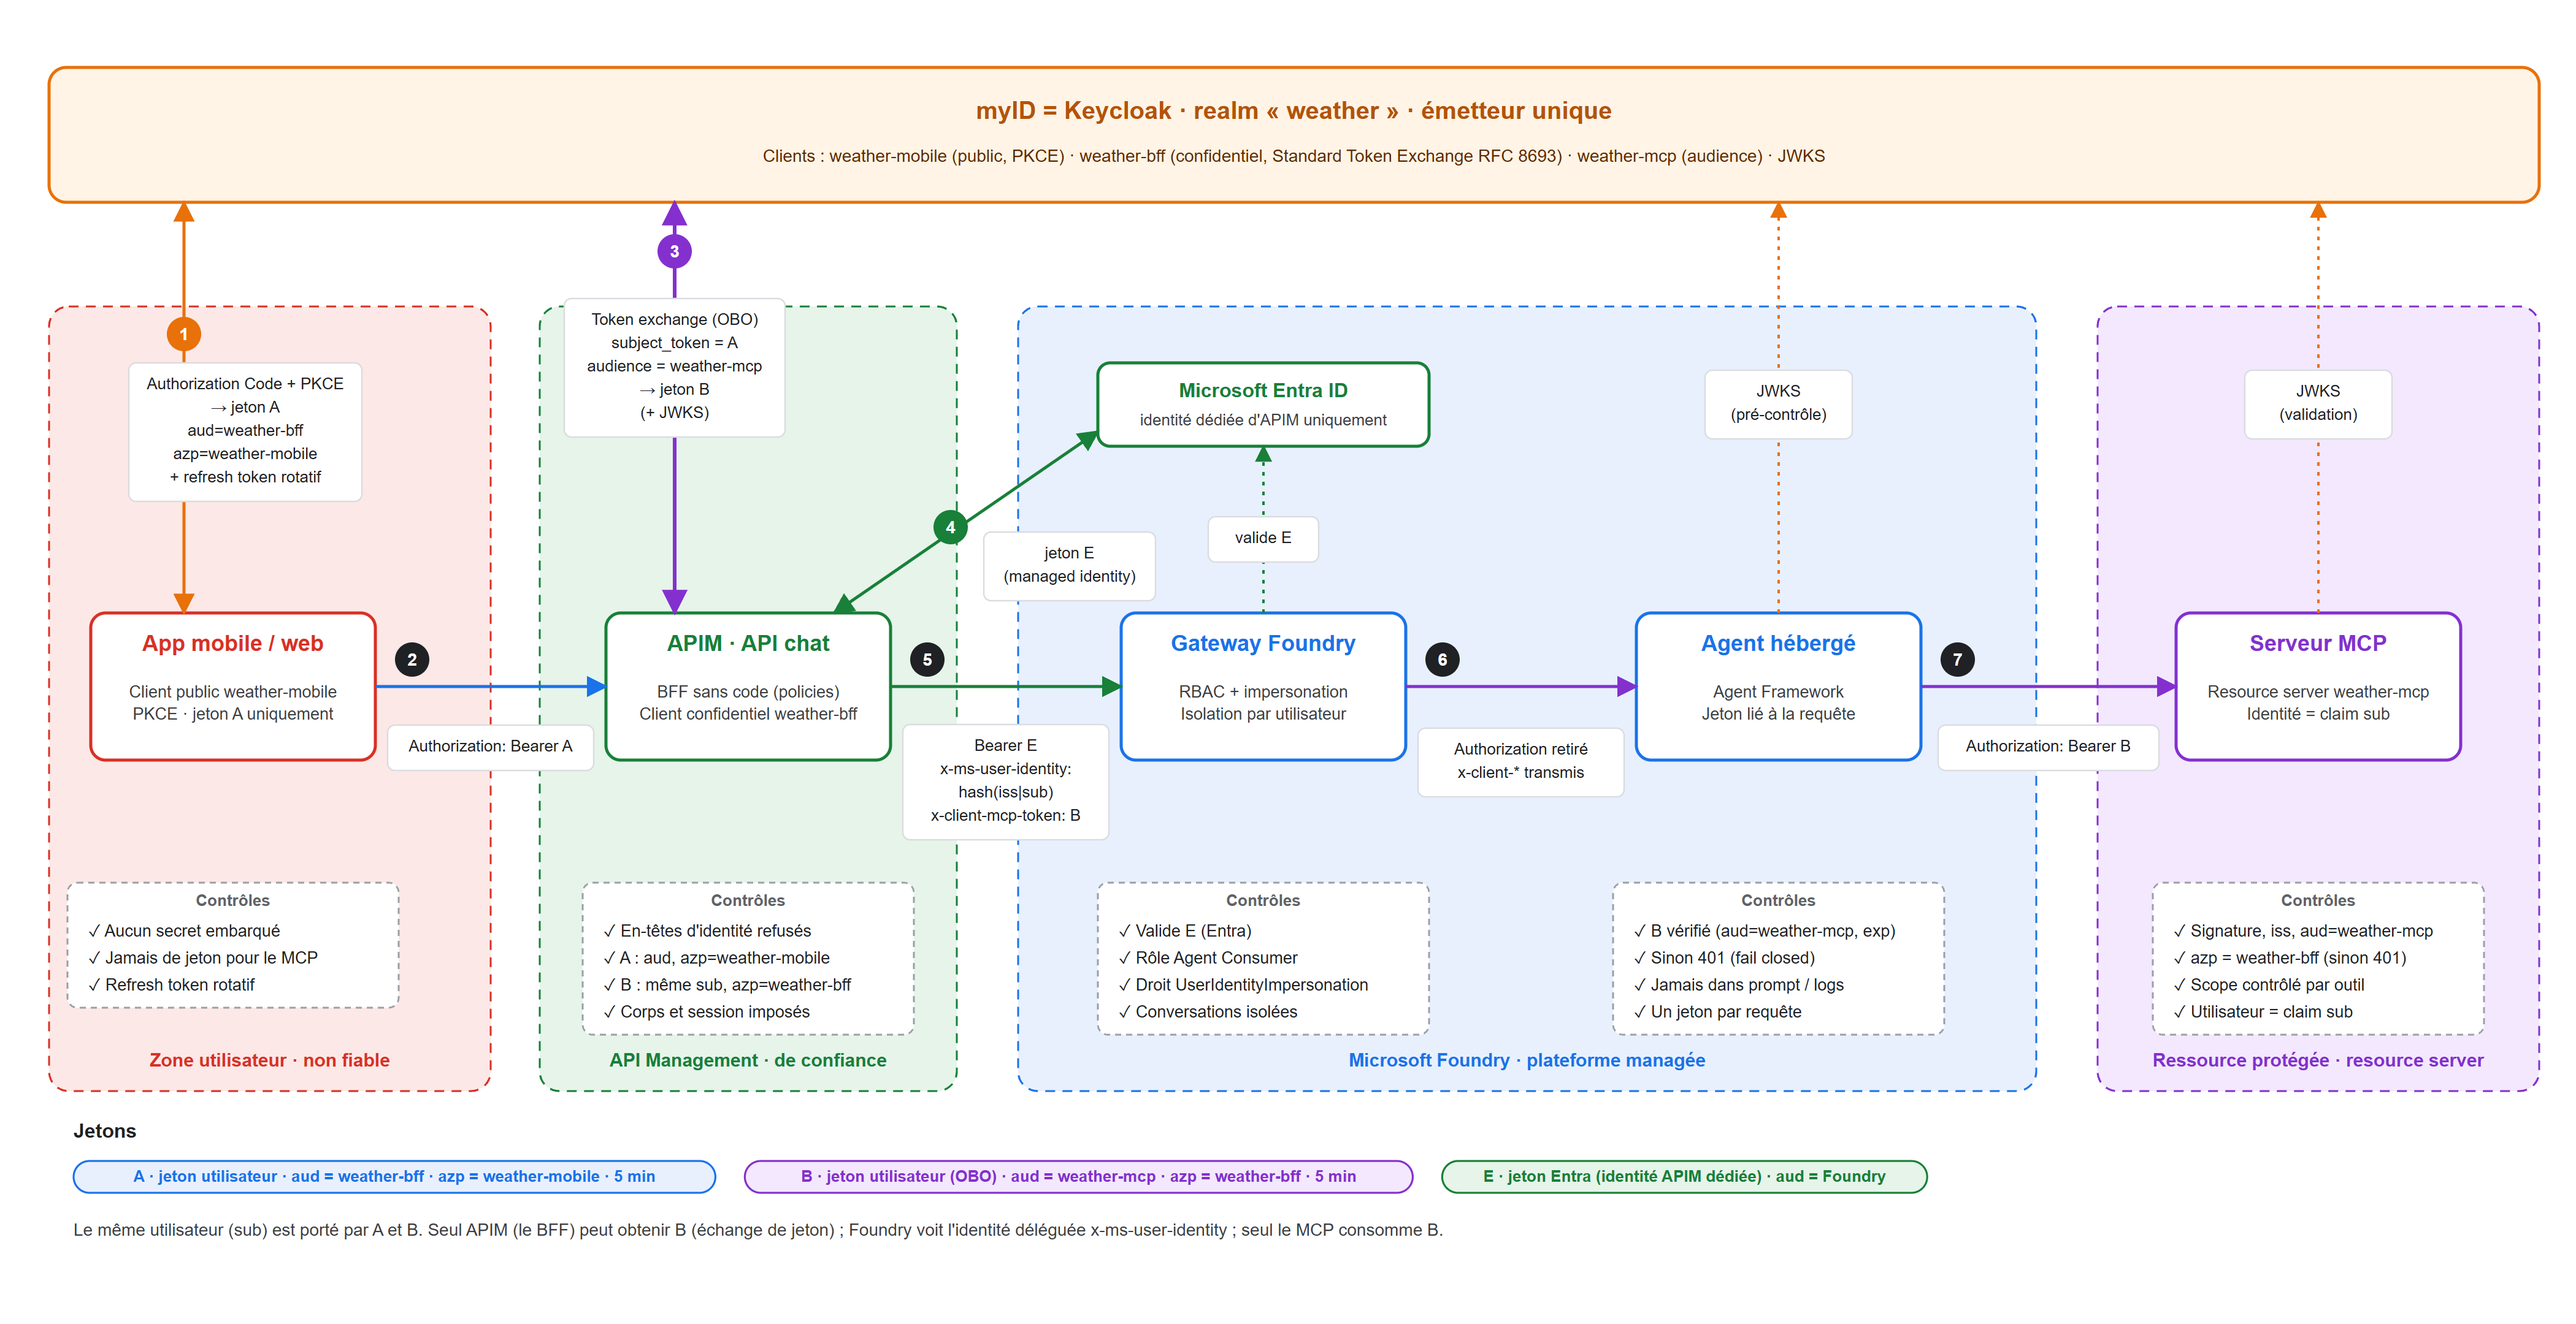
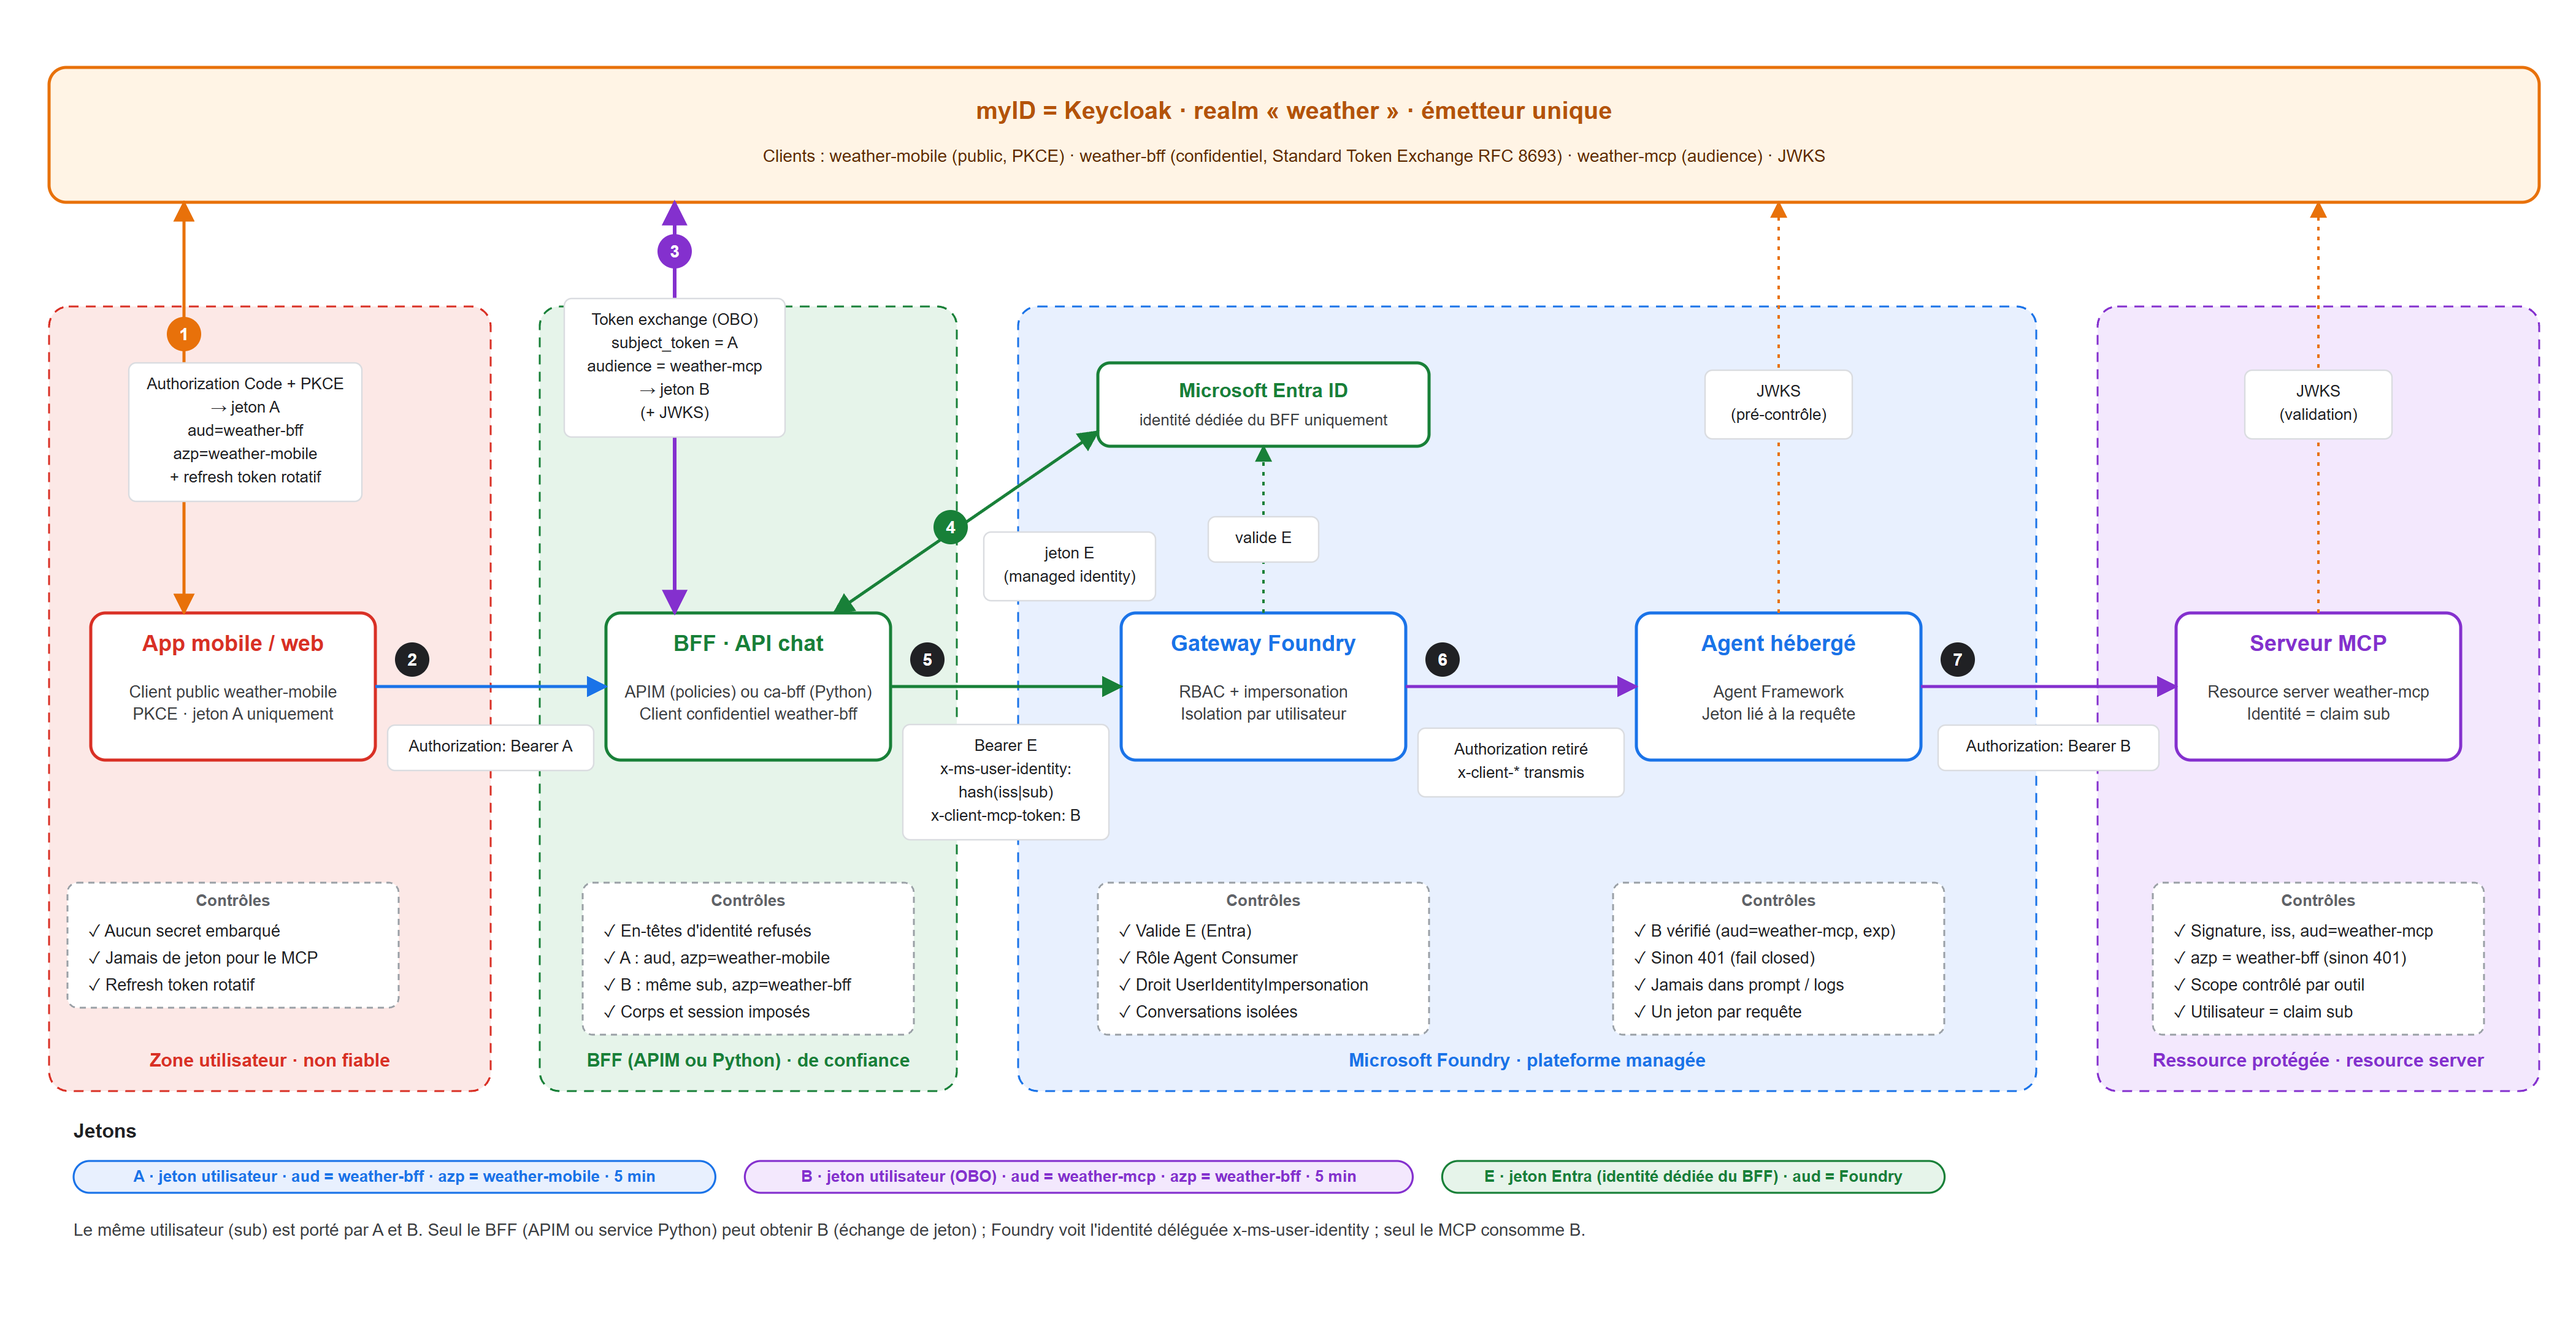
docs(architecture): describe the code BFF mode alongside APIM
Sections 1-7 are now mode-neutral (the BFF is APIM or the ca-bff Python
service), with a per-step table of what changes between modes. Section 8
gains an 'Architecture du mode code' part: deployment diagram, resources,
id-bff roles, Key Vault secret reference, module layout, scaling limits,
local tests and deployment. Flow and sequence diagrams regenerated.

diff --git a/docs/diagrams/flow.py b/docs/diagrams/flow.py
@@ -88,7 +88,7 @@ out.append(
 # Trust zones (background)
 zones = [
     ("app", "Zone utilisateur", "non fiable", "#FCE8E6", "#D93025", 40, 360),
-    ("bff", "API Management", "de confiance", "#E6F4EA", "#188038", 440, 340),
+    ("bff", "BFF (APIM ou Python)", "de confiance", "#E6F4EA", "#188038", 440, 340),
     ("foundry", "Microsoft Foundry", "plateforme managée", "#E8F0FE", "#1A73E8", 830, 830),
     ("mcp", "Ressource protégée", "resource server", "#F3E8FD", "#8430CE", 1710, 360),
 ]
@@ -104,11 +104,11 @@ text(1055, IDP_Y + 18, "Clients : weather-mobile (public, PKCE) · weather-bff (
 # Entra
 rect(COLS["gw"] - 135, ENTRA_Y - 34, 270, 68, "#FFFFFF", "#188038", rx=10, sw=2.5)
 text(COLS["gw"], ENTRA_Y - 10, "Microsoft Entra ID", size=16, weight="bold", color="#188038")
-text(COLS["gw"], ENTRA_Y + 14, "identité dédiée d'APIM uniquement", size=13, color="#3C4043")
+text(COLS["gw"], ENTRA_Y + 14, "identité dédiée du BFF uniquement", size=13, color="#3C4043")
 
 # Main chain
 box(COLS["app"], CHAIN_Y, BOX_W, BOX_H, "App mobile / web", ["Client public weather-mobile", "PKCE · jeton A uniquement"], "#FFFFFF", "#D93025")
-box(COLS["bff"], CHAIN_Y, BOX_W, BOX_H, "APIM · API chat", ["BFF sans code (policies)", "Client confidentiel weather-bff"], "#FFFFFF", "#188038")
+box(COLS["bff"], CHAIN_Y, BOX_W, BOX_H, "BFF · API chat", ["APIM (policies) ou ca-bff (Python)", "Client confidentiel weather-bff"], "#FFFFFF", "#188038")
 box(COLS["gw"], CHAIN_Y, BOX_W, BOX_H, "Gateway Foundry", ["RBAC + impersonation", "Isolation par utilisateur"], "#FFFFFF", "#1A73E8")
 box(COLS["agent"], CHAIN_Y, BOX_W, BOX_H, "Agent hébergé", ["Agent Framework", "Jeton lié à la requête"], "#FFFFFF", "#1A73E8")
 box(COLS["mcp"], CHAIN_Y, BOX_W, BOX_H, "Serveur MCP", ["Resource server weather-mcp", "Identité = claim sub"], "#FFFFFF", "#8430CE")
@@ -176,8 +176,8 @@ text(60, ly - 36, "Jetons", size=16, weight="bold", anchor="start")
 x = 60
 x += pill(x, ly, "A", "A · jeton utilisateur · aud = weather-bff · azp = weather-mobile · 5 min") + 24
 x += pill(x, ly, "B", "B · jeton utilisateur (OBO) · aud = weather-mcp · azp = weather-bff · 5 min") + 24
-pill(x, ly, "E", "E · jeton Entra (identité APIM dédiée) · aud = Foundry")
-text(60, ly + 44, "Le même utilisateur (sub) est porté par A et B. Seul APIM (le BFF) peut obtenir B (échange de jeton) ; Foundry voit l'identité déléguée x-ms-user-identity ; seul le MCP consomme B.",
+pill(x, ly, "E", "E · jeton Entra (identité dédiée du BFF) · aud = Foundry")
+text(60, ly + 44, "Le même utilisateur (sub) est porté par A et B. Seul le BFF (APIM ou service Python) peut obtenir B (échange de jeton) ; Foundry voit l'identité déléguée x-ms-user-identity ; seul le MCP consomme B.",
      size=14, color="#3C4043", anchor="start")
 
 out.append("</svg>")
